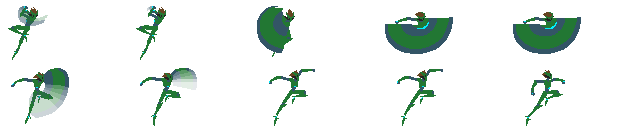
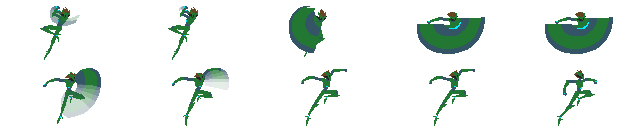
other aerials

diff --git a/Breakneck/Actor.cpp b/Breakneck/Actor.cpp
@@ -15,21 +15,13 @@ Actor::Actor( GameSession *gs )
 		activeEdges = new Edge*[16]; //this can probably be really small I don't think it matters. 
 		numActiveEdges = 0;
 
-		cout << "shader available: " << Shader::isAvailable() << endl;
-		//assert( Shader::isAvailable() && "help me" );
-		/*const std::string fragmentShader = \
-			"void main()" \
-			"{" \
-			"    ..." \
-			"}";
-
 		assert( Shader::isAvailable() && "help me" );
 		if (!sh.loadFromFile("player_shader.frag", sf::Shader::Fragment))
 		//if (!sh.loadFromMemory(fragmentShader, sf::Shader::Fragment))
 		{
 			cout << "PLAYER SHADER NOT LOADING CORRECTLY" << endl;
 			assert( 0 && "player shader not loaded" );
-		}*/
+		}
 
 		offsetX = 0;
 		sprite = new Sprite;
@@ -37,7 +29,7 @@ Actor::Actor( GameSession *gs )
 		
 		//tileset setup
 		{
-		actionLength[DAIR] = 10;
+		actionLength[DAIR] = 10 * 2;
 		tileset[DAIR] = owner->GetTileset( "dair.png", 128, 64 );
 
 		actionLength[DASH] = 120;
@@ -46,7 +38,7 @@ Actor::Actor( GameSession *gs )
 		actionLength[DOUBLE] = 30;
 		tileset[DOUBLE] = owner->GetTileset( "double.png", 64, 64 );
 
-		actionLength[FAIR] = 10;
+		actionLength[FAIR] = 10 * 2;
 		tileset[FAIR] = owner->GetTileset( "fair.png", 128, 64 );
 
 		actionLength[JUMP] = 2;
@@ -70,13 +62,13 @@ Actor::Actor( GameSession *gs )
 		actionLength[STANDN] = 5 * 2;
 		tileset[STANDN] = owner->GetTileset( "standn.png", 128, 64 );
 
-		actionLength[UAIR] = 9;
+		actionLength[UAIR] = 9 * 3;
 		tileset[UAIR] = owner->GetTileset( "uair.png", 128, 128 );
 
 		actionLength[WALLCLING] = 1;
 		tileset[WALLCLING] = owner->GetTileset( "wallcling.png", 64, 64 );
 
-		actionLength[WALLJUMP] = 7 * 2;
+		actionLength[WALLJUMP] = 9 * 2;
 		tileset[WALLJUMP] = owner->GetTileset( "walljump.png", 64, 64 );
 		}
 
@@ -86,7 +78,7 @@ Actor::Actor( GameSession *gs )
 		gravity = 2;
 		maxFallSpeed = 60;
 
-		wallJumpStrength.x = 15;
+		wallJumpStrength.x = 10;
 		wallJumpStrength.y = 30;
 		clingSpeed = 3;
 
@@ -140,6 +132,18 @@ void Actor::ActionEnded()
 		case STANDN:
 			action = STAND;
 			frame = 0;
+			break;
+		case FAIR:
+			action = JUMP;
+			frame = 1;
+			break;
+		case DAIR:
+			action = JUMP;
+			frame = 1;
+			break;
+		case UAIR:
+			action = JUMP;
+			frame = 1;
 			break;
 		}
 	}
@@ -200,6 +204,7 @@ void Actor::UpdatePrePhysics()
 						action = WALLJUMP;
 						frame = 0;
 						facingRight = true;
+						break;
 					}
 				}
 			}
@@ -213,8 +218,31 @@ void Actor::UpdatePrePhysics()
 						action = WALLJUMP;
 						frame = 0;
 						facingRight = false;
+						break;
 					}
 				}
+			}
+
+			if( currInput.X && !prevInput.X )
+			{
+				if( !currInput.Left() && !currInput.Right() )
+				{
+					if( currInput.Up() )
+					{
+						action = UAIR;
+						frame = 0;
+						break;
+					}
+					else if( currInput.Down() )
+					{
+						action = DAIR;
+						frame = 0;
+						break;
+					}
+				}
+
+				action = FAIR;
+				frame = 0;
 			}
 
 			break;
@@ -233,12 +261,27 @@ void Actor::UpdatePrePhysics()
 
 		break;
 	case WALLCLING:
-		if( (facingRight && currInput.Right()) || (!facingRight && currInput.Left() ) )
 		{
+			if( (facingRight && currInput.Right()) || (!facingRight && currInput.Left() ) )
+			{
 
-			action = WALLJUMP;
-			frame = 0;
-			//facingRight = !facingRight;
+				action = WALLJUMP;
+				frame = 0;
+				//facingRight = !facingRight;
+			}
+			break;
+		}
+	case FAIR:
+		{
+			break;
+		}
+	case DAIR:
+		{
+			break;
+		}
+	case UAIR:
+		{
+			break;
 		}
 	}
 
@@ -373,6 +416,18 @@ void Actor::UpdatePrePhysics()
 				//}
 			}
 			}
+			break;
+		}
+	case FAIR:
+		{
+			break;
+		}
+	case DAIR:
+		{
+			break;
+		}
+	case UAIR:
+		{
 			break;
 		}
 	}
@@ -1413,11 +1468,11 @@ void Actor::UpdatePostPhysics()
 			else
 			{
 				sf::IntRect ir = tileset[WALLJUMP]->GetSubRect( frame / 2 );
-				
 				sprite->setTextureRect( sf::IntRect( ir.left + ir.width, ir.top, -ir.width, ir.height ) );
 			}
 			sprite->setOrigin( sprite->getLocalBounds().width / 2, sprite->getLocalBounds().height / 2 );
 			sprite->setPosition( position.x, position.y );
+
 			break;
 		}
 	case STANDN:
@@ -1431,6 +1486,57 @@ void Actor::UpdatePostPhysics()
 			{
 				sf::IntRect ir = tileset[STANDN]->GetSubRect( frame / 2 );
 				
+				sprite->setTextureRect( sf::IntRect( ir.left + ir.width, ir.top, -ir.width, ir.height ) );
+			}
+			sprite->setOrigin( sprite->getLocalBounds().width / 2, sprite->getLocalBounds().height / 2 );
+			sprite->setPosition( position.x, position.y );
+			break;
+		}
+	case FAIR:
+		{
+	
+			sprite->setTexture( *(tileset[FAIR]->texture));
+			if( facingRight )
+			{
+				sprite->setTextureRect( tileset[FAIR]->GetSubRect( frame / 2 ) );
+			}
+			else
+			{
+				sf::IntRect ir = tileset[FAIR]->GetSubRect( frame / 2 );
+				sprite->setTextureRect( sf::IntRect( ir.left + ir.width, ir.top, -ir.width, ir.height ) );
+			}
+			sprite->setOrigin( sprite->getLocalBounds().width / 2, sprite->getLocalBounds().height / 2 );
+			sprite->setPosition( position.x, position.y );
+			break;
+		}
+	case DAIR:
+		{
+	
+			sprite->setTexture( *(tileset[DAIR]->texture));
+			if( facingRight )
+			{
+				sprite->setTextureRect( tileset[DAIR]->GetSubRect( frame / 2 ) );
+			}
+			else
+			{
+				sf::IntRect ir = tileset[DAIR]->GetSubRect( frame / 2 );
+				sprite->setTextureRect( sf::IntRect( ir.left + ir.width, ir.top, -ir.width, ir.height ) );
+			}
+			sprite->setOrigin( sprite->getLocalBounds().width / 2, sprite->getLocalBounds().height / 2 );
+			sprite->setPosition( position.x, position.y );
+			break;
+		}
+	case UAIR:
+		{
+	
+			sprite->setTexture( *(tileset[UAIR]->texture));
+			if( facingRight )
+			{
+				sprite->setTextureRect( tileset[UAIR]->GetSubRect( frame / 3 ) );
+			}
+			else
+			{
+				sf::IntRect ir = tileset[UAIR]->GetSubRect( frame / 3 );
 				sprite->setTextureRect( sf::IntRect( ir.left + ir.width, ir.top, -ir.width, ir.height ) );
 			}
 			sprite->setOrigin( sprite->getLocalBounds().width / 2, sprite->getLocalBounds().height / 2 );

diff --git a/Breakneck/GameSession.cpp b/Breakneck/GameSession.cpp
@@ -198,7 +198,7 @@ int GameSession::Run( string fileName )
 	bDraw.setFillColor( Color::Red );
 	bDraw.setSize( sf::Vector2f(32 * 2, 32 * 2) );
 	bDraw.setOrigin( bDraw.getLocalBounds().width /2, bDraw.getLocalBounds().height / 2 );
-	bool bdrawdraw = true;
+	bool bdrawdraw = false;
 
 	OpenFile( fileName );
 	
@@ -420,7 +420,7 @@ int GameSession::Run( string fileName )
 		if( bdrawdraw)
 		window->draw( bDraw );
 
-		window->draw( *(player.sprite) );//, &player.sh );
+		window->draw( *(player.sprite) , &player.sh );
 		sf::RectangleShape rs;
 		rs.setSize( Vector2f(64, 64) );
 		rs.setOrigin( rs.getLocalBounds().width / 2, rs.getLocalBounds().height / 2 );
